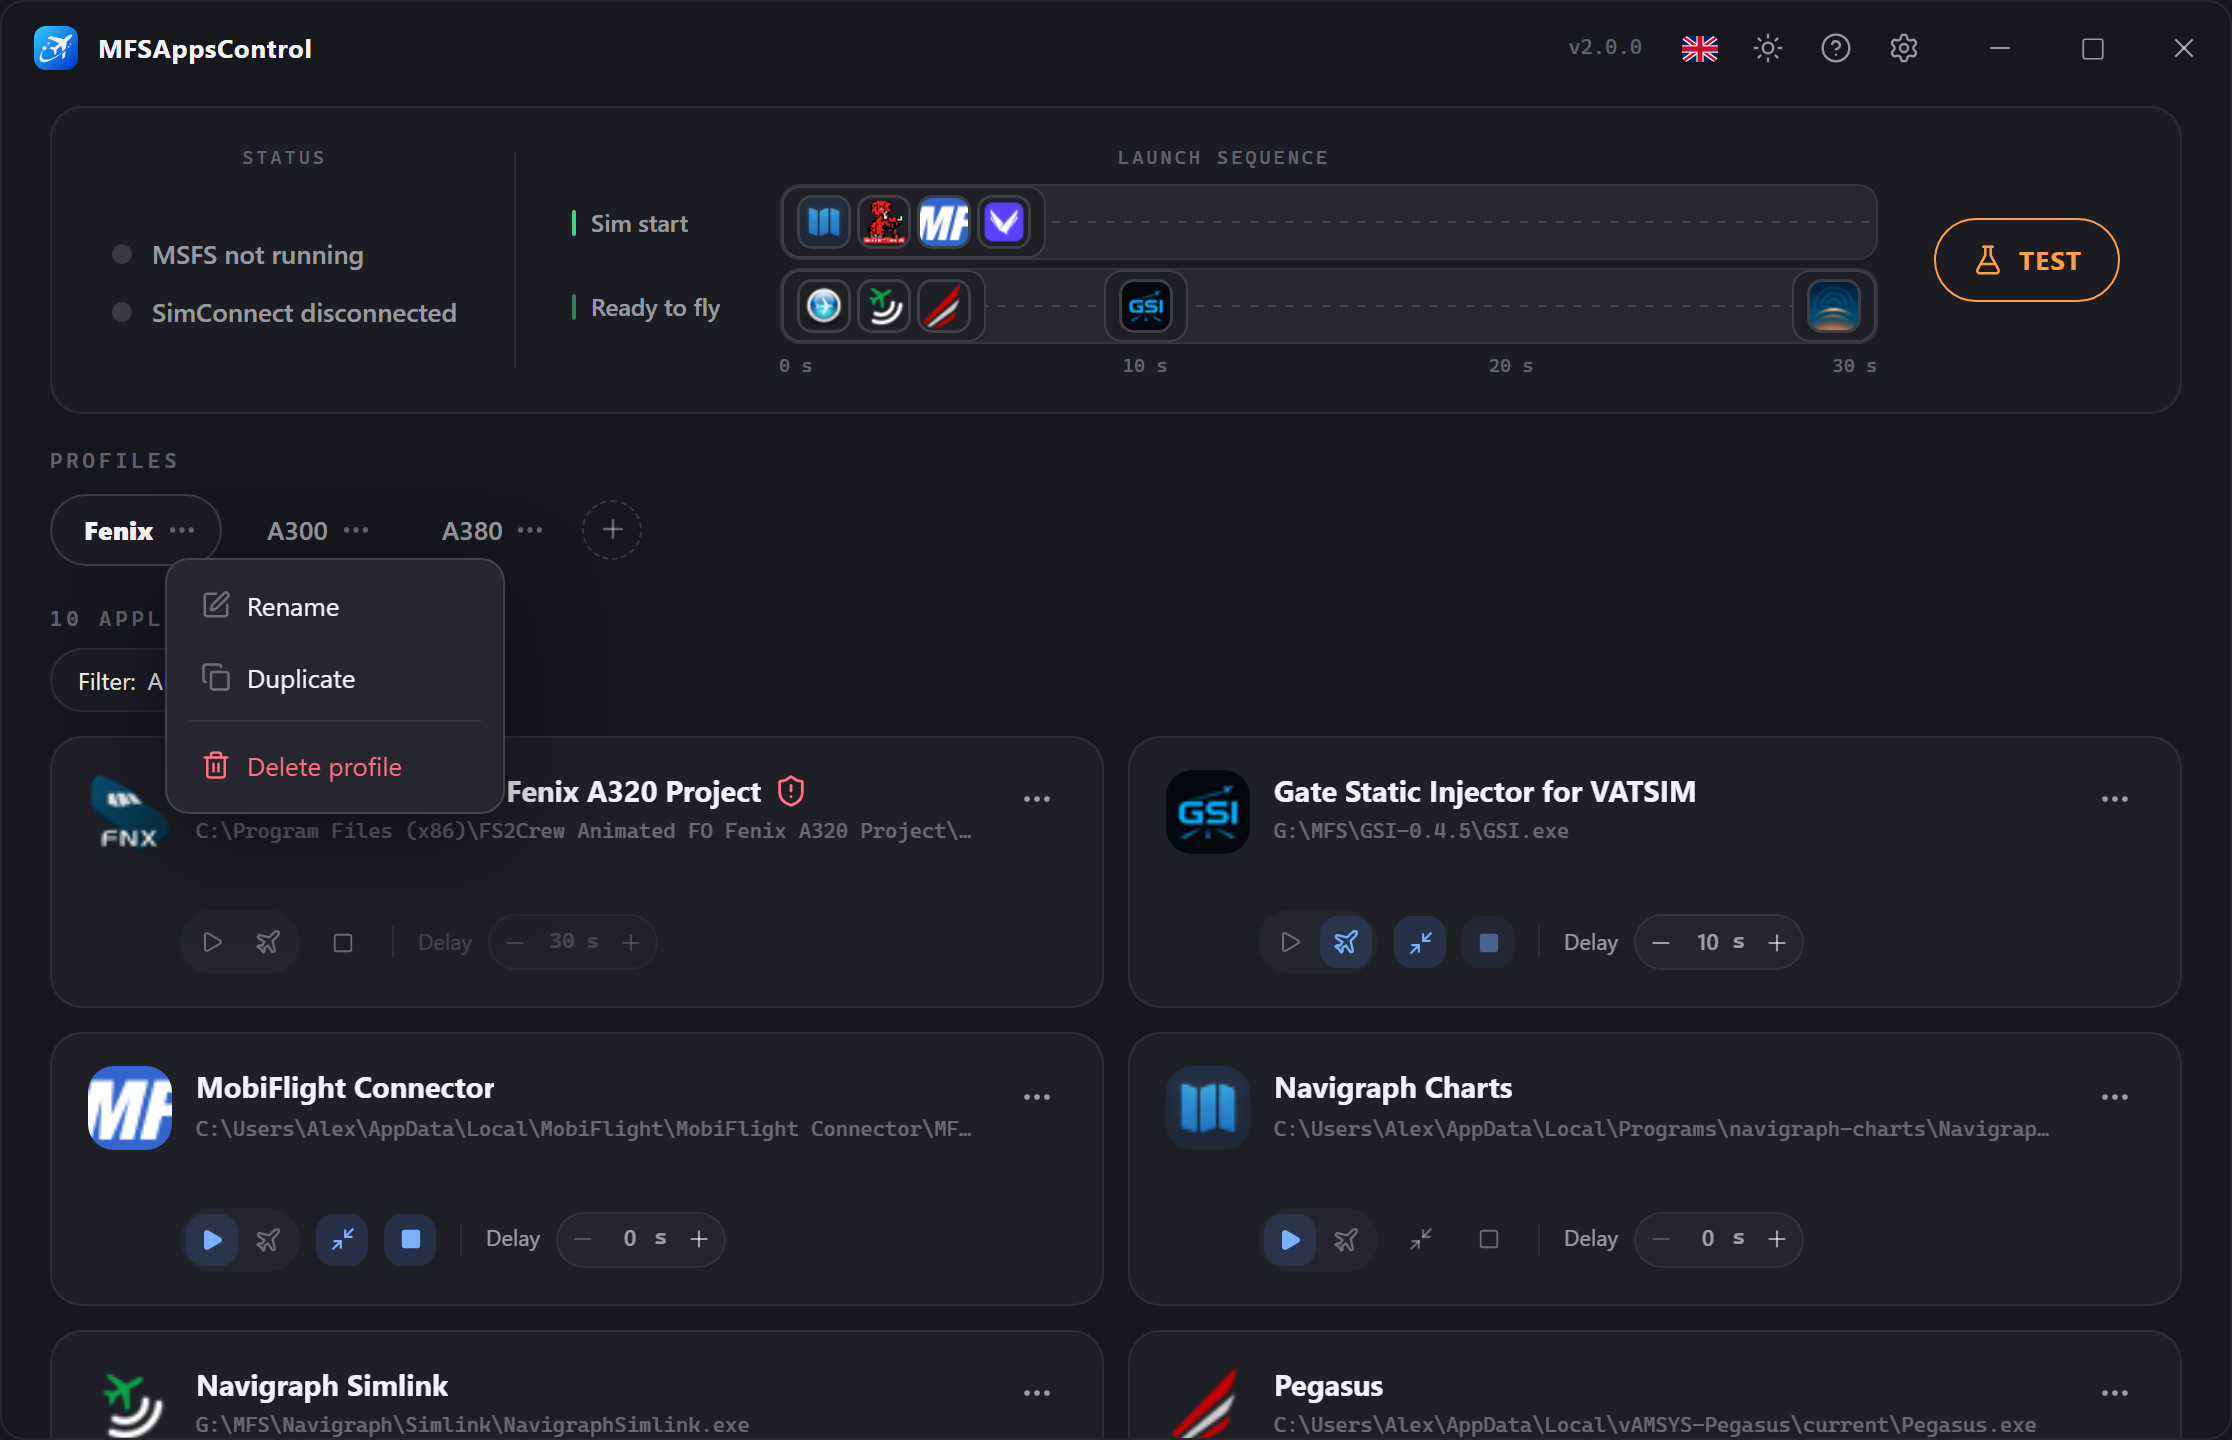
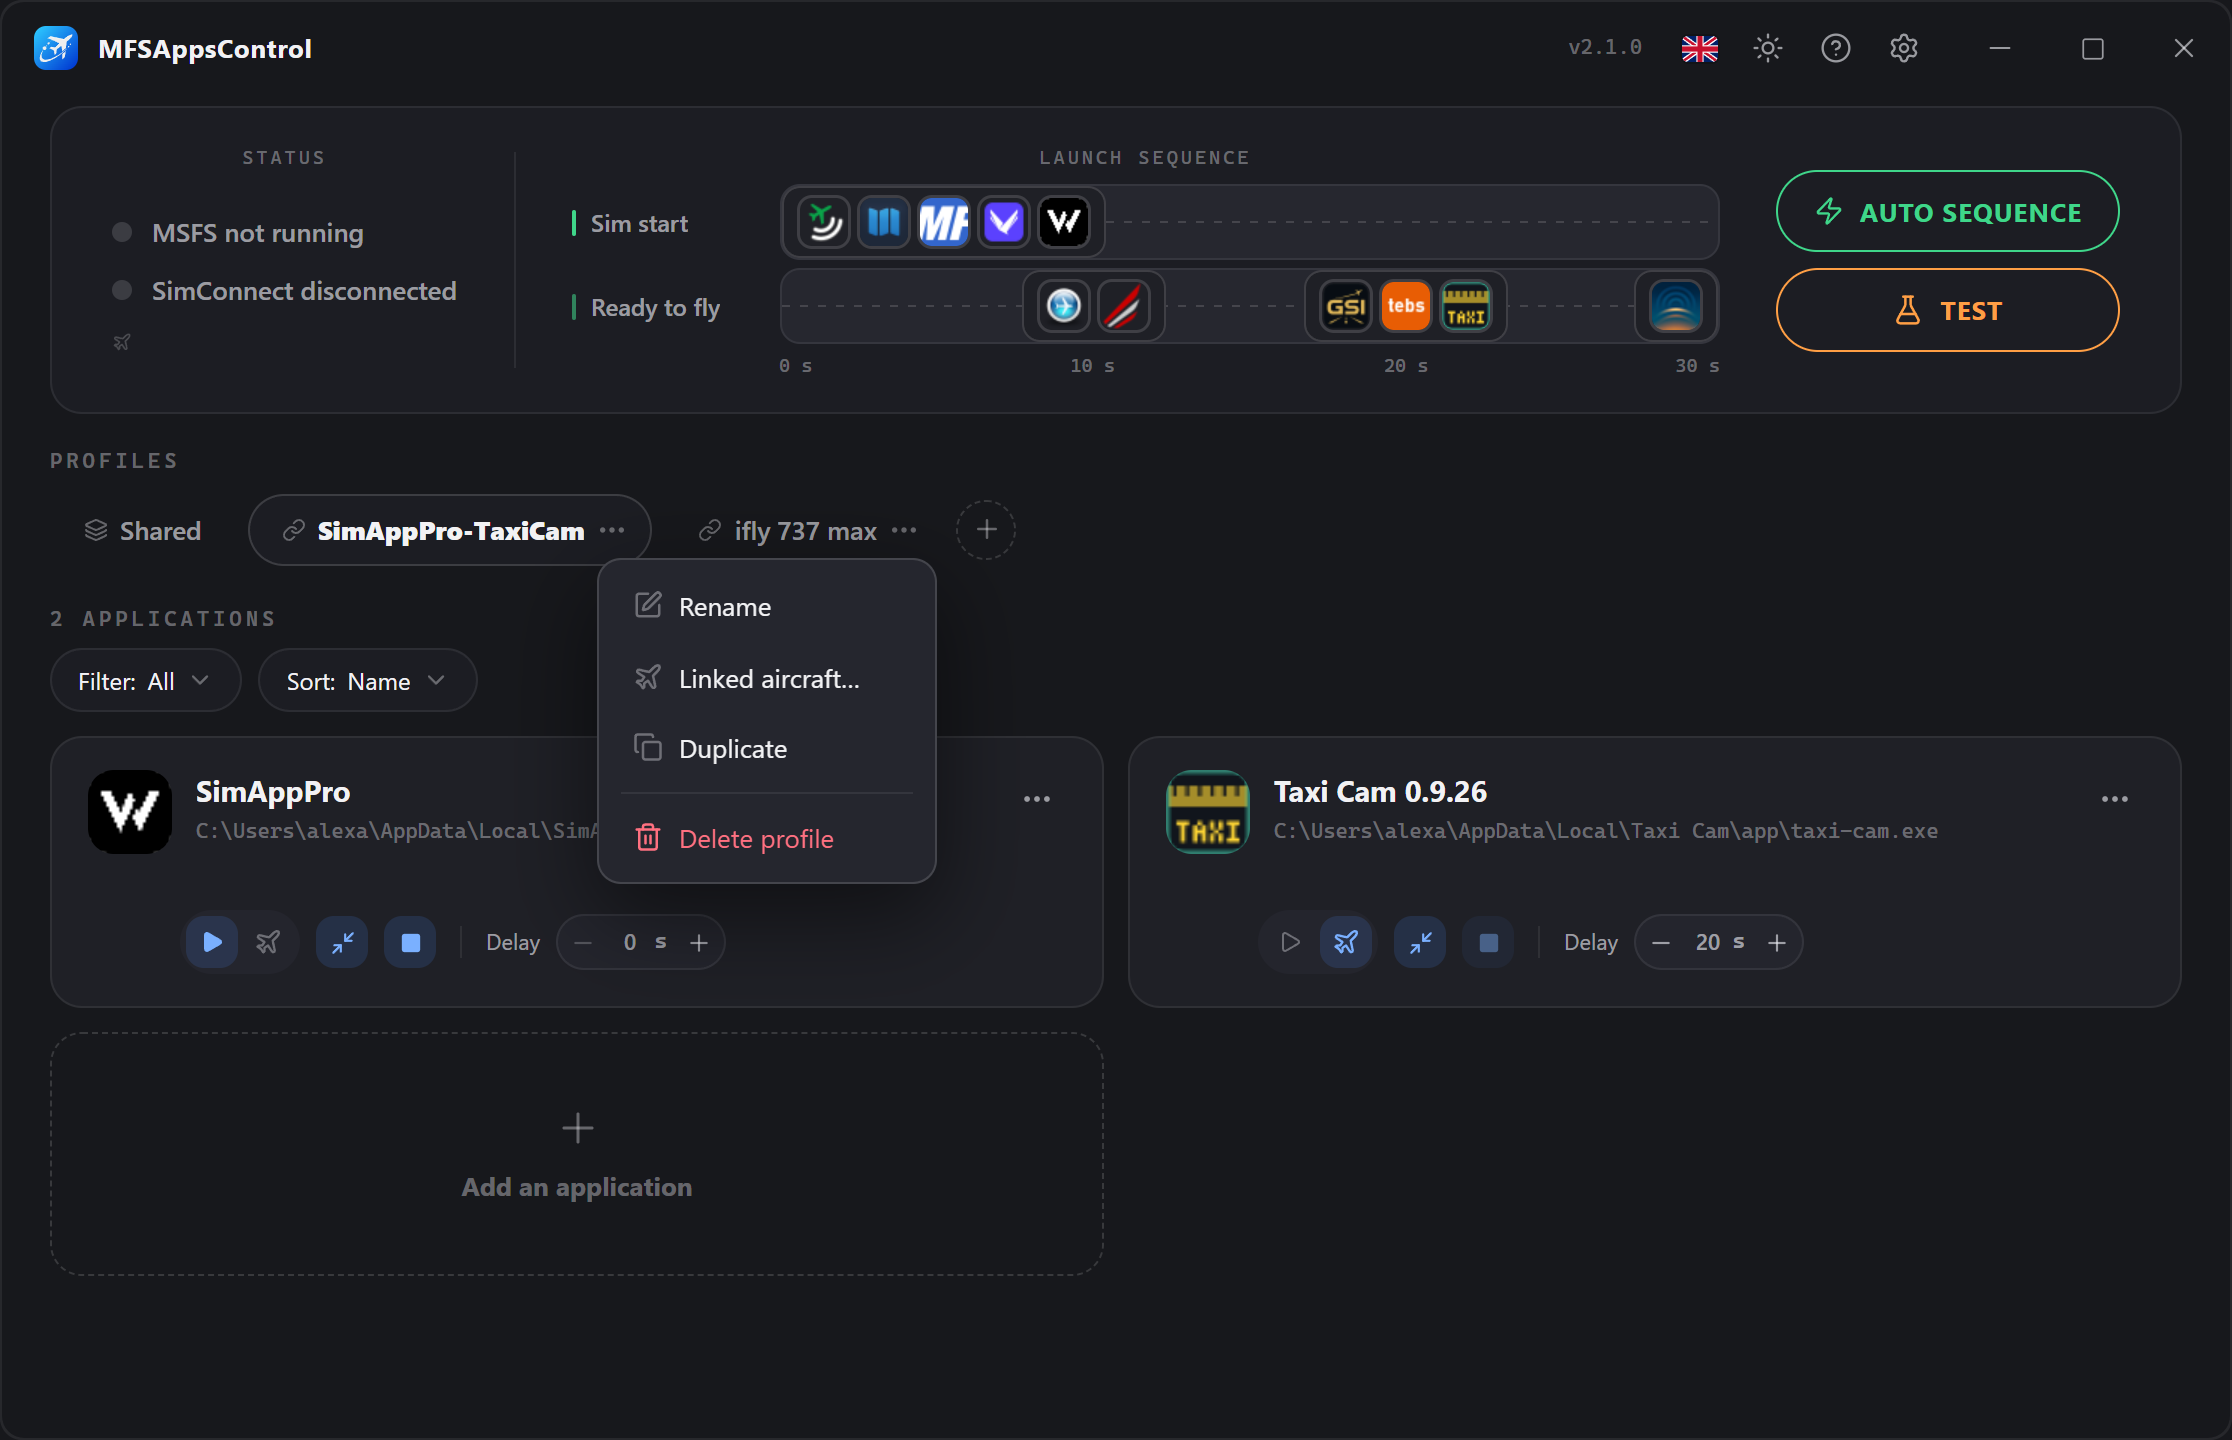
📚 docs: refresh the screenshots for 2.1.0
The main screen, its annotated version, the status banner, the profile row,
the profile menu and a card menu now show 2.1: the Shared tab, linked
profiles, the aircraft row, the Auto sequence switch and Move to Shared.

The profiles page gains the grouping window and the linked-aircraft list.

Rendered from the development frontend with the development profile and the
real application icons, at the window size of the previous captures.

diff --git a/docs/profiles.de.md b/docs/profiles.de.md
@@ -73,6 +73,8 @@ Sie werden einmal eingerichtet, starten mit jedem aktiven Profil und erscheinen 
 
 MFSAppsControl bietet an, die Anwendungen, die mehrere Profile gemeinsam haben, nach Gemeinsam zu verschieben. Es **tut das nie von selbst**: Ein Fenster listet sie auf, alle angehakt, und nur was angehakt bleibt, wird verschoben.
 
+![Das Zusammenführen-Fenster](assets/shared-grouping.png)
+
 Das Angebot erscheint:
 
 - **einmal, nach dem Update auf 2.1**, für die Anwendungen, die in allen Ihren Profilen vorhanden sind;
@@ -90,6 +92,8 @@ Ein Profil kann mit **einem oder mehreren Flugzeugen verknüpft** werden: Wird e
 
 - **Im Band**: Sobald der Simulator das geladene Flugzeug meldet, klicken Sie auf seinen Namen und wählen das Profil.
 - **Im Profilmenü → Verknüpfte Flugzeuge…**: die Liste Ihrer installierten Flugzeuge (Community und Marketplace) mit Suchfeld, nutzbar mit oder ohne laufenden Simulator. Die bereits mit dem Profil verknüpften Flugzeuge stehen oben; ein anderswo verknüpftes Flugzeug zeigt, welches Profil es hat, und das Anhaken verschiebt es hierher.
+
+![Die Liste der verknüpften Flugzeuge](assets/aircraft-link.png)
 
 Ein verknüpftes Profil zeigt ein Symbol :material-link-variant: auf seinem Badge; fahren Sie darüber, um seine Flugzeuge zu sehen.
 

diff --git a/docs/profiles.fr.md b/docs/profiles.fr.md
@@ -73,6 +73,8 @@ Elles se règlent une seule fois, se lancent avec n'importe quel profil actif et
 
 MFSAppsControl propose de déplacer dans Partagé les applications que plusieurs profils ont en commun. Il **ne le fait jamais de lui-même** : une fenêtre les liste, toutes cochées, et seul ce que vous laissez coché est déplacé.
 
+![La fenêtre de regroupement](assets/shared-grouping.png)
+
 La proposition arrive :
 
 - **une fois, après la mise à jour vers la 2.1**, pour les applications présentes dans tous vos profils ;
@@ -90,6 +92,8 @@ Un profil peut être **lié à un ou plusieurs avions** : quand un vol se charge
 
 - **Depuis le bandeau** : dès que le simulateur annonce l'avion chargé, cliquez sur son nom et choisissez le profil.
 - **Depuis le menu du profil → Avions liés…** : la liste de vos avions installés (Community et Marketplace), avec un champ de recherche, utilisable simulateur lancé ou non. Les avions déjà liés au profil viennent en premier ; un avion lié ailleurs indique le profil qui le détient, et le cocher le déplace ici.
+
+![La liste des avions liés](assets/aircraft-link.png)
 
 Un profil lié affiche une icône :material-link-variant: sur son badge ; survolez-la pour voir ses avions.
 

diff --git a/docs/profiles.pt.md b/docs/profiles.pt.md
@@ -73,6 +73,8 @@ Configuram-se uma única vez, iniciam com qualquer perfil ativo e aparecem na me
 
 O MFSAppsControl propõe mover para Compartilhado as aplicações que vários perfis têm em comum. **Nunca o faz sozinho**: uma janela lista-as, todas assinaladas, e só se move o que deixar assinalado.
 
+![A janela de agrupamento](assets/shared-grouping.png)
+
 A proposta surge:
 
 - **uma vez, após a atualização para a 2.1**, para as aplicações presentes em todos os seus perfis;
@@ -90,6 +92,8 @@ Um perfil pode ser **vinculado a uma ou mais aeronaves**: quando um voo é carre
 
 - **A partir do painel**: assim que o simulador anuncia a aeronave carregada, clique no nome e escolha o perfil.
 - **A partir do menu do perfil → Aeronaves vinculadas…**: a lista das suas aeronaves instaladas (Community e Marketplace), com um campo de pesquisa, utilizável com o simulador iniciado ou não. As aeronaves já vinculadas ao perfil aparecem primeiro; uma aeronave vinculada a outro perfil indica qual a tem, e assinalá-la traz-la para aqui.
+
+![A lista de aeronaves vinculadas](assets/aircraft-link.png)
 
 Um perfil vinculado mostra um ícone :material-link-variant: no seu emblema; passe o rato por cima para ver as suas aeronaves.
 

diff --git a/docs/profiles.es.md b/docs/profiles.es.md
@@ -73,6 +73,8 @@ Se configuran una sola vez, se inician con cualquier perfil activo y aparecen en
 
 MFSAppsControl ofrece mover a Compartido las aplicaciones que varios perfiles tienen en común. **Nunca lo hace por su cuenta**: una ventana las lista, todas marcadas, y solo se mueve lo que dejas marcado.
 
+![La ventana de agrupación](assets/shared-grouping.png)
+
 La propuesta aparece:
 
 - **una vez, tras la actualización a la 2.1**, para las aplicaciones presentes en todos tus perfiles;
@@ -90,6 +92,8 @@ Un perfil puede **vincularse a uno o varios aviones**: cuando se carga un vuelo 
 
 - **Desde el panel**: en cuanto el simulador anuncia el avión cargado, haz clic en su nombre y elige el perfil.
 - **Desde el menú del perfil → Aviones vinculados…**: la lista de tus aviones instalados (Community y Marketplace), con un campo de búsqueda, utilizable con el simulador iniciado o no. Los aviones ya vinculados al perfil aparecen primero; un avión vinculado a otro perfil indica cuál lo tiene, y marcarlo lo trae aquí.
+
+![La lista de aviones vinculados](assets/aircraft-link.png)
 
 Un perfil vinculado muestra un icono :material-link-variant: en su insignia; pasa el ratón por encima para ver sus aviones.
 

diff --git a/docs/profiles.it.md b/docs/profiles.it.md
@@ -73,6 +73,8 @@ Si configurano una sola volta, si avviano con qualsiasi profilo attivo e compaio
 
 MFSAppsControl propone di spostare in Condiviso le applicazioni che più profili hanno in comune. **Non lo fa mai da solo**: una finestra le elenca, tutte spuntate, e si sposta solo ciò che lasci spuntato.
 
+![La finestra di raggruppamento](assets/shared-grouping.png)
+
 La proposta arriva:
 
 - **una volta, dopo l'aggiornamento alla 2.1**, per le applicazioni presenti in tutti i tuoi profili;
@@ -90,6 +92,8 @@ Un profilo può essere **collegato a uno o più aerei**: quando si carica un vol
 
 - **Dal banner**: appena il simulatore annuncia l'aereo caricato, fai clic sul suo nome e scegli il profilo.
 - **Dal menu del profilo → Aerei collegati…**: l'elenco dei tuoi aerei installati (Community e Marketplace), con un campo di ricerca, utilizzabile con il simulatore avviato o no. Gli aerei già collegati al profilo vengono per primi; un aereo collegato altrove indica quale profilo lo ha, e spuntarlo lo sposta qui.
+
+![L'elenco degli aerei collegati](assets/aircraft-link.png)
 
 Un profilo collegato mostra un'icona :material-link-variant: sul suo badge; passaci sopra per vedere i suoi aerei.
 

diff --git a/docs/profiles.md b/docs/profiles.md
@@ -73,6 +73,8 @@ They are set up once, launch with whichever profile is active, and appear on the
 
 MFSAppsControl offers to move into Shared the applications that several profiles have in common. It **never does so on its own**: a window lists them, all ticked, and only what you leave ticked moves.
 
+![The grouping window](assets/shared-grouping.png)
+
 The offer comes:
 
 - **once, after the update to 2.1**, for the applications that all your profiles hold;
@@ -90,6 +92,8 @@ A profile can be **linked to one or more aircraft**: when a flight loads with on
 
 - **From the banner**: once the simulator reports the loaded aircraft, click its name and choose the profile.
 - **From the profile menu → Linked aircraft…**: the list of your installed aircraft (Community and Marketplace), with a search field, usable with the simulator running or not. The aircraft already linked to the profile come first; one linked elsewhere shows which profile holds it, and ticking it moves it here.
+
+![The linked-aircraft list](assets/aircraft-link.png)
 
 A linked profile shows a :material-link-variant: icon on its badge; hover it to see its aircraft.
 
